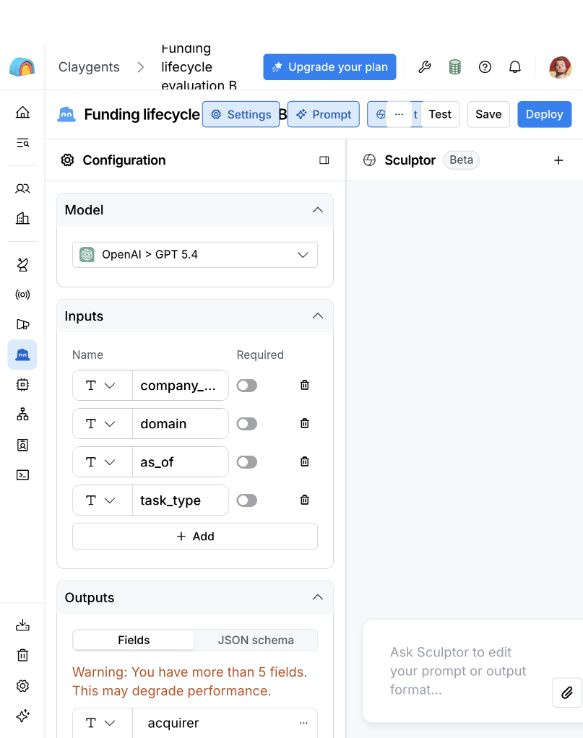
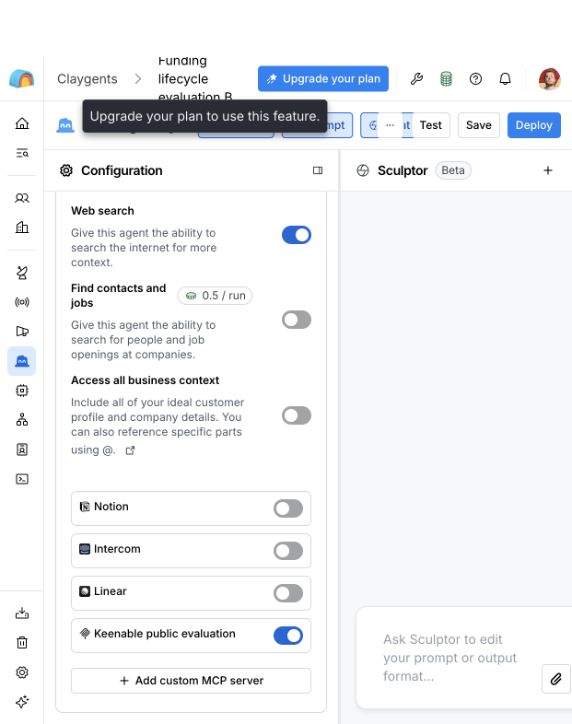
Add pinned Docker runtime and compact reproduction guide

diff --git a/test_eval.py b/test_eval.py
@@ -108,8 +108,11 @@ class RunnerTests(unittest.TestCase):
                 runner.run(args)
                 self.assertEqual(len(calls), count, 'Resume must not submit completed runs again')
                 first = (args.output / 'summary.json').read_bytes()
+                first_table = (args.output / 'results.md').read_bytes()
                 runner.reproduce(args.output)
                 self.assertEqual(first, (args.output / 'summary.json').read_bytes())
+                self.assertEqual(first_table, (args.output / 'results.md').read_bytes())
+                self.assertIn(b'[ungraded](01-A/result.json)', first_table)
                 self.assertFalse(runner.read(args.output / 'summary.json')['accuracy']['calculated'])
                 cases[0]['domain'] = 'changed.test'
                 runner.save(root / 'cases.json', cases)
@@ -125,6 +128,7 @@ class RunnerTests(unittest.TestCase):
                 groups = runner.read(args.output / 'summary.json')['accuracy']['by_arm']
                 self.assertEqual(groups['A']['fields']['funding_stage'], {'correct': 1, 'total': 1})
                 self.assertEqual(groups['B']['supported_answer']['total'], 0)
+                self.assertIn('[1/1](01-A/result.json)', (args.output / 'results.md').read_text())
 
     def test_judgment_coverage_pairs_and_separate_entity_metrics(self):
         with tempfile.TemporaryDirectory() as temporary:

diff --git a/docs/methodology.md b/docs/methodology.md
@@ -4,7 +4,7 @@
 
 Does adding Keenable to a searching Claygent improve evidence-backed answers about a company's latest funding and current lifecycle?
 
-The business outcome is avoiding incorrect prospect qualification caused by stale financing data. I will measure factual research quality first. I will not infer revenue, conversion or sales lift from this experiment.
+The business outcome is avoiding incorrect prospect qualification caused by stale financing data. The experiment measures factual research quality. It does not measure revenue, conversion or sales lift.
 
 ## Conditions
 
@@ -12,17 +12,16 @@ The business outcome is avoiding incorrect prospect qualification caused by stal
 | --- | --- | --- |
 | A | Identical fixed configuration | Native Clay web search and page access |
 | B | Identical fixed configuration | Native Clay tools plus Keenable search and fetch |
-| C, optional diagnostic | Same configuration | Keenable with native web search disabled, only if verified supported |
 
-A remains a full research agent. Both A and B explicitly check for newer acquisition, IPO and closure evidence. B is an augmentation test. I will not describe it as replacing Clay's search. I will preserve tool traces to distinguish availability, actual use, successful retrieval and evidence used in the answer.
+A remains a full research agent. Both A and B explicitly check for newer acquisition, IPO and closure evidence. B is an augmentation test. It does not test replacement of Clay's search. Saved tool-step summaries distinguish availability from actual use.
 
-The main prompt will not force B to use Keenable. Both agents may choose their available tools. A B-run that does not call Keenable remains in the aggregate result, with non-use reported. A forced-tool smoke test verifies wiring separately and does not count toward quality results.
+The main prompt does not force B to use Keenable. Both agents may choose their available tools. A B-run that does not call Keenable remains in the aggregate result, with non-use reported. A forced-tool smoke test verifies wiring separately and does not count toward quality results.
 
 If a tool needs a short explanation of its name, put an equivalent tool-use instruction in both prompts. Do not add special research hints or target URLs only to B.
 
 ## Cases and evidence
 
-1. Freeze 50 company identities before seeing agent answers. The sample includes 28 recent-funding cases, 21 acquired/public lifecycle cases and one separate entity-resolution probe. Include recent rounds across sectors and geographies, acquired venture-backed companies, and a terminated-deal or IPO control. Include Keenable at the user's request. Report results with and without Keenable.
+1. Freeze 50 company identities before seeing agent answers. The sample includes 28 funding cases (mostly recent, with older controls), 21 acquired/public lifecycle cases and one separate entity-resolution probe. Include recent rounds across sectors and geographies, acquired venture-backed companies, and a terminated-deal or IPO control. Include Keenable at the user's request. Report results with and without Keenable.
 2. Include named complaint inputs only when the original names them. Never invent the unidentified company in the funding/acquisition complaint. Keep freemanseattle.com as a separate entity-resolution probe with its own task and score.
 3. Find reference evidence independently of Keenable's results. Prefer company, acquirer, investor and regulatory publications. Record publication date, event date when different, retrieval date and precise supporting fact.
 4. Separate agent inputs from reference answers. The agent receives only company name, domain, as-of date and the common task. It receives no reference URLs, answers, complaint category or difficulty hints.
@@ -34,7 +33,7 @@ Existence of a historical funding announcement does not prove it is the latest r
 
 Return legal/business identity, latest reported venture round, announcement date, amount and currency when established, lifecycle status, lifecycle event date, acquirer when relevant, and evidence URLs tied to each claim. Distinguish acquired, public, private/independent supported by evidence, closed, pending acquisition, and unknown. Record conflicting sources explicitly. Do not convert currencies or substitute total funding for the round amount.
 
-Any ICP eligibility field will use a published rule. Funding stage and lifecycle remain separate fields. A seed-stage company such as Keenable is still useful for factual research even if a Series-only ICP would exclude it.
+ICP exclusion in lifecycle references is derived from acquired/public status; the output has no separate ICP field. Funding stage and lifecycle remain separate fields. A seed-stage company such as Keenable is still useful for factual research even if a Series-only ICP would exclude it.
 
 ## Fair execution
 
@@ -53,16 +52,34 @@ For each A/B disagreement, inspect the retrieved evidence. Classify it as missin
 
 Report wins, ties and losses across all cases; field accuracy; missed facts; false claims; source support; and the percentage of B runs using Keenable. Show per-case results. Small exploratory samples support case observations, not population-wide improvement claims.
 
+The headline counts companies with all predeclared target facts correct and supported. Paired outcomes compare correct-field counts only when both arms have the same non-null targets. A missed extension can affect date, amount, extension recognition and citation support together. Those are correlated scoring dimensions of one missed event. A tie can mean both answers are wrong. `supported_answer` covers scored targets only; additional questionable claims remain visible in judgments.
+
+References are positive evidence anchors, not an exhaustive claim that no later event exists. A supported later event before the cutoff is accepted. Equivalent wording, currencies, date semantics and primary-source corrections are reviewed explicitly. `null` is used only when a target cannot fairly be scored.
+
+Codex adjudicates answers against sources. A/B labels are visible during review. This is not blinded human grading or independent model adjudication. Original source URLs and decision notes are saved with every judgment.
+
+The official CLI exposes tool-step summaries. Many response bodies in those summaries are truncated at 500 characters, even with verbose output. Call names establish observed tool use, but a truncated body cannot establish all evidence that the model received. Claims of Keenable attribution are limited accordingly.
+
 Measure latency from run submission to terminal completion with the same boundary in both conditions. Report total provider charges only from billing evidence. Keep Clay credits, actions and currency charges distinct. Free Builder tests do not estimate production cost. A provider's internal inference estimate is not the user's bill. Compute cost per correct answer only when both the numerator and scoring denominator are established.
 
 ## Reproducibility contract
 
 The final runner must document installation, Clay login, required workspace capabilities, Keenable setup, smoke test, bounded live run, resume and offline reproduction. Credentials stay outside the repository. Document any necessary one-time UI configuration instead of claiming a key alone is sufficient.
 
-The current integration is under validation. Do not publish quality claims or a finished-run command until real tool calls and a complete A/B run have been verified.
+Actual native and Keenable calls were verified before the full comparison. Quality claims require completed paired runs and source adjudication.
 
 ## Preselected challenges
 
 Select difficulty before seeing the answers: extensions after a major round; round amount versus valuation, cumulative funding or debt; announcement versus completion and page-update dates; historical VC funding followed by acquisition or listing; cancelled acquisitions; and same-name entities. Include routine controls as well. A challenge reason is a hypothesis about difficulty, not evidence that either agent will fail.
 
 The UI warns that more than five output fields can degrade performance. Both arms use the same eleven fields to keep factual claims independently inspectable. This common configuration is part of the protocol, not an unrestricted claim about Clay's best possible performance. The eight-call research limit is a prompt instruction; actual calls are recorded because the platform may not enforce it.
+
+The 50 identities comprise 28 funding cases, 14 completed-acquisition cases, seven public-listing cases and one entity probe. Twenty-two have a United States geography label; other cases span Europe, India, Australia, Israel and South Korea, including cross-border companies. The sample remains technology-heavy and purposive. Only the Freeman entity probe is a named input from a retrieved complaint; the funding complaint did not disclose its company.
+
+## Verification coverage
+
+I checked the protocol for an active native-search baseline, equal prompts and models, separate reference answers, exploratory versus held-out labeling, dated sources, and unsupported cost or benefit claims.
+
+An independent model review was attempted through the configured free OpenRouter MCP on September 30, 2026. Both listed connections returned a reauthentication error during the read-only health check. No review generation ran. I did not use a paid fallback or a separate Claude budget. This is a review coverage limitation, not an independent endorsement.
+
+The runner passed seven offline checks covering ambiguous submissions, 50-case scheduling and resume, bounded concurrency, exact prompt restoration after Builder formatting, native and Keenable trace parsing, and complete versus partial judgment aggregation. The initial live pair completed with actual Keenable use in B. The 100-run company evaluation is ongoing; setup and graph validation are not treated as evidence of research accuracy.

diff --git a/README.md b/README.md
@@ -1,58 +1,50 @@
-# Claygent + Keenable evaluation
+# Keenable Eval for Claygent
 
-## About
+[Claygent](https://university.clay.com/docs/claygent-builder) researches companies using web search. This experiment tests whether adding [Keenable](https://keenable.ai/) improves its answers about the latest funding and current ownership status.
 
-Does Keenable help an already-searching Claygent find better evidence about company funding and ownership?
-
-This repository compares two GPT-5.4 Claygents with the same prompt, inputs and output fields. A uses native Clay search. B also has Keenable search and fetch. B chooses its tools; it is not forced to use Keenable. The test contains 50 preselected companies, including recent rounds, completed acquisitions, public listings and a separate same-name company probe.
-
-The task comes from dated Clay community reports. [EVIDENCE.md](EVIDENCE.md) distinguishes recurring business problems from old bugs, feature requests and already-suggested fixes. [DESIGN.md](DESIGN.md) explains selection and scoring.
+50 companies, two agents, one shared GPT-5.4 prompt: native Clay search versus native search plus Keenable. The task comes from [dated user reports](docs/evidence.md).
 
 ## Results
 
-The paired company evaluation is in progress. Successful integration smoke tests establish tool wiring, not better research quality. No winner is claimed yet.
+The 100-run comparison is in progress. Results will include correct target facts, paired wins and losses, actual Keenable use, and observed Clay credits. No overall winner is claimed yet.
 
 ## How to run
 
-The runner uses Python 3 and the official Clay CLI on macOS or Linux. You need a Clay account with Claygent Builder and workflow access, and sufficient existing credits. Python dependencies are all in the standard library. No OpenAI key, browser cookie export or Codex installation is required.
+Use Docker with Compose. Python and the official Clay CLI are pinned in the image.
 
-1. Clone this repository and enter it. Install the official CLI using Clay's [setup instructions](https://github.com/clay-run/agent-plugins/blob/main/clay/skills/setup/SKILL.md). This run used CLI `1.4.0+de2a0396a538`. Put `clay` on PATH, or set `CLAY_BIN` to its absolute path.
-2. Run `clay login --device`. Open the printed link, select your workspace and authorize the CLI. Then run `./eval doctor`. If needed, use `clay workspaces list` and `clay workspaces switch <id>` first.
-3. Run `./eval setup`. It creates both workflows, triggers and agents from the checked-in prompt and schema. It records workspace-specific IDs under ignored `.local/`. Running setup again reuses its saved resources.
-4. Open the generated B agent in Claygent Builder. Under Tools, add a custom MCP server named `Keenable public evaluation` with URL `https://api.keenable.ai/mcp`. Leave the API key empty for the public tier. Enable the connection and keep Web search enabled. Save. Verify A has Web search enabled and Keenable disabled. Keep unrelated private connectors and business context disabled on both. This is the one configuration step the inspected official CLI does not expose. See [INTEGRATION.md](INTEGRATION.md).
-5. Run `./eval bind-refresh` to attach the saved B version to its workflow. This starts no research runs.
-6. Start with one pair from the full frozen plan:
+### Reproduce saved results
 
-   ```sh
-   ./eval run --output runs/my-run --stop-after-pairs 1 --allow-credit-use
-   ```
+```sh
+git clone https://github.com/Alpus/clay-keenable-eval.git
+cd clay-keenable-eval
+docker compose build
+CLAY_NETWORK_MODE=none docker compose run --rm eval reproduce --output /results/exploratory-001
+```
 
-   Inspect `runs/my-run/summary.json` and the saved results. Then resume the same plan:
+After the image is built, this runs without network access, credentials or credits. It recalculates metrics from saved answers and reviewed judgments.
 
-   ```sh
-   ./eval run --output runs/my-run --allow-credit-use
-   ```
+### Run a fresh comparison
 
-   The full plan has 100 agent runs. `--concurrency` controls the number of in-flight runs (default 2, maximum 4). These calls can consume Clay data credits and actions. No command buys credits or changes your plan. Use `--limit N` at the start to freeze a smaller plan. Do not change that limit when resuming.
-7. Recompute the saved operational results without network calls:
+1. Authorize Clay and create the two agents:
 
    ```sh
-   ./eval reproduce --output runs/my-run
+   docker compose run --rm --entrypoint clay eval login --device
+   docker compose run --rm eval setup
    ```
 
-The run saves each returned run ID before polling. Reusing the same output directory resumes known runs. An ambiguous submission stops for inspection instead of spending credits on an automatic duplicate. Do not delete a run directory to recover a timeout. Setup and live runs verify the actual prompt, model, schema, input mappings and graph. Tool configuration is checked in the UI because the CLI does not expose it; actual tool use comes from the saved run trace.
+2. [Connect Keenable once in Builder](docs/usage.md#connect-keenable-once), then run:
+
+   ```sh
+   docker compose run --rm eval bind-refresh
+   docker compose run --rm eval run --output /results/my-run --concurrency 4 --timeout 1200 --allow-credit-use
+   ```
+
+The script schedules all 100 runs automatically, with up to four in flight. Repeat the run command to resume. Results appear in `runs/my-run`. Fresh runs consume existing Clay credits. New factual scores require reviewing the answers against sources. [Native setup, smaller runs and grading](docs/usage.md).
 
 ## Details
 
-- `eval`: one executable for setup, execution, resume and offline reproduction.
-- `cases.json`: model inputs only. No answers, reference URLs or difficulty hints.
-- `prompt.txt`, `output-schema.json`: shared research instructions and fields.
-- `ground-truth.json`: independently researched reference facts and source limitations. The runner never reads it.
-- `dataset-manifest.json`: pre-run dataset and configuration hashes.
-- `runs/`: saved inputs, configurations, outputs, tool traces and observed charges.
-- `INTEGRATION.md`: verified connection setup, saved-version handling and smoke results.
-- `REVIEW.md`: verification coverage and review limitations.
+The comparison gives both agents native web search. B may also use Keenable; it is not forced to. Tool traces show actual use. Sources and reference facts were collected independently of Keenable. This is a purposive exploratory sample with one attempt per condition, not a representative benchmark.
 
-Offline factual scores require reviewed `judgments.json` in the run directory. Without it, the runner reports execution and cost only. A missing fact is not proof of absence. Later supported facts can correct incomplete reference answers, with the adjudication preserved.
+[Method and scoring](docs/methodology.md) · [Complaint evidence](docs/evidence.md) · [Setup and resume](docs/usage.md)
 
-Run the runner's offline safety checks with `python3 -m unittest -v test_eval.py`. Credentials remain in Clay's own local credential store. Never commit `.local/`, credential files or API keys.
+`eval` is the only runner. `cases.json` contains agent inputs; `ground-truth.json` contains separate reference facts. `prompt.txt` and `output-schema.json` define the shared agent. Saved runs contain configurations, answers, traces, charges and judgments. Credentials are excluded.

diff --git a/docs/usage.md b/docs/usage.md
@@ -1,0 +1,101 @@
+# Usage
+
+The runner uses Python 3 and the official Clay CLI on macOS or Linux. No Python packages, OpenAI API key, browser cookie export or Codex installation are required. Fresh runs need a Clay account with Builder and workflow access and enough existing credits. This experiment used Clay CLI `1.4.0+de2a0396a538`.
+
+## Docker setup
+
+Use Docker Engine or Docker Desktop with Compose. Run `docker compose build`, then:
+
+```sh
+docker compose run --rm --entrypoint clay eval login --device
+docker compose run --rm eval doctor
+docker compose run --rm eval setup
+```
+
+Open the device link, choose your workspace and authorize the CLI. Website sign-in alone is not enough. Complete the Builder connection below, then run `docker compose run --rm eval bind-refresh`.
+
+For every native `./eval` command below, the Docker equivalent is `docker compose run --rm eval`. Use `/results/my-run` as the output path inside Docker. It maps to `runs/my-run` on the host. The repository is mounted read-only. Credentials and workflow state use separate persistent Docker volumes. Preserve those volumes to resume; `docker compose down --volumes` deletes them. Docker does not reuse a native installation's credentials or workflow bindings.
+
+Python 3.13.15 and Clay CLI 1.4.0 are pinned with an image digest and binary checksums. The container was built and tested on Linux ARM64. An official AMD64 binary is configured but was not executed in this verification. Fresh-checkout setup and offline replay were tested. The paid comparison was executed natively with the same runner and CLI version; authenticated container research was not separately replayed.
+
+After building the image, disable networking for saved-result reproduction:
+
+```sh
+CLAY_NETWORK_MODE=none docker compose run --rm eval reproduce --output /results/exploratory-001
+```
+
+## Native setup
+
+1. Clone this repository and enter its directory.
+2. Install the CLI using Clay's [official setup instructions](https://github.com/clay-run/agent-plugins/blob/main/clay/skills/setup/SKILL.md). Put `clay` on PATH, or set `CLAY_BIN` to its absolute path. The official native installer verifies the downloaded binary checksum and preserves compatible installations.
+3. Run `clay login --device`. Open the printed link, choose the workspace and authorize the CLI. Website sign-in alone is not sufficient. If several workspaces are connected, use `clay workspaces list` and `clay workspaces switch <id>`.
+4. Run `./eval doctor`, then `./eval setup`. Setup creates both workflows, manual triggers and GPT-5.4 agents from the checked-in files. It prints their IDs and workflow links. Repeating setup reuses the resources recorded in ignored `.local/state.json`.
+5. Complete the connection step below, then run `./eval bind-refresh`. It attaches B's saved version, restores any whitespace formatting introduced by Builder, and checks exact prompt, model, schema, input mappings and graph equality. It starts no model runs.
+
+## Connect Keenable once
+
+Open **Funding lifecycle evaluation B** in Claygent Builder, using the agent ID printed by setup to distinguish it from any older experiment.
+
+1. Under Tools, keep **Web search** enabled.
+2. Add a custom MCP server named **Keenable public evaluation** with URL `https://api.keenable.ai/mcp`. Leave the API key empty for the public tier.
+3. Enable that connection and save the agent.
+4. Verify A has Web search enabled and Keenable disabled. Keep other private connectors, account context and business context disabled on both.
+
+This setting is not exposed by the inspected official CLI node schema. The runner therefore uses one manual Builder step, then the official CLI for all runs. It never replays private browser endpoints or stores browser credentials. [A configuration](../evidence/variant-a-settings.png) · [B configuration](../evidence/variant-b-settings.png).
+
+The [public Keenable tier](https://docs.keenable.ai/rate-limits) is unbilled and allows 1,000 requests per hour, at most 10 per second, shared per IP. Clay may use shared egress. A rate-limit failure must be recorded, not bypassed. Authenticated Keenable setup was not tested here.
+
+## Run and resume
+
+Start with the first pair while keeping the full 50-company plan:
+
+```sh
+./eval run --output runs/my-run --concurrency 4 --stop-after-pairs 1 --allow-credit-use
+```
+
+Inspect the saved answers and tool traces. Continue all remaining pairs:
+
+```sh
+./eval run --output runs/my-run --concurrency 4 --timeout 1200 --allow-credit-use
+```
+
+The script automatically submits up to four runs concurrently. A/B submission order alternates across companies. It saves each returned run ID before polling. Terminal runs are not repeated. A polling timeout leaves the original run available for resume.
+
+- `--limit N` freezes a smaller plan at the first invocation. Keep that limit when resuming.
+- `--stop-after-pairs N` is an operational checkpoint, not a new dataset.
+- `--concurrency 1..4` changes in-flight capacity. Each invocation is recorded; it does not change prompts or answers.
+- `--timeout SECONDS` controls polling time per run (default 600). It never resubmits a timed-out run.
+- `--allow-credit-use` permits spending existing Clay credits. No command purchases credits or changes a plan.
+
+Keep one runner process per checkout. To resume, preserve `.local/` and the run directory, resolve the interruption, and repeat the same command. Changed inputs, model, prompt, schema or workflow bindings stop resume. An ambiguous submission stops for inspection of its saved call and Clay run history. Do not delete its records or start a fresh directory as a retry.
+
+If setup reports an ambiguous mutation, inspect the saved `.local/` journal and actual workflow before recovery. The runner will not blindly duplicate it.
+
+## Reproduce and grade
+
+```sh
+./eval reproduce --output runs/exploratory-001
+```
+
+This reads saved files only and rebuilds `summary.json` and the per-company `results.md` table. It does not need Clay authentication, credits or the reference file. Saved judgments are the factual scoring input; reproduction recomputes their aggregates, not a new independent judgment of the sources.
+
+For a fresh run, review every answer against the [scoring rules](methodology.md), then save `judgments.json` in its run directory. Without judgments, reproduction reports execution, tool use, time and credits only. Partial judgment coverage is explicitly labeled.
+
+```json
+{
+  "cases": [
+    {
+      "case_id": "example",
+      "arm": "A",
+      "scored_task": "funding_and_lifecycle",
+      "fields": {"funding_stage": true, "announcement_date": false},
+      "supported_answer": false,
+      "notes": "Explain the evidence and any ambiguity."
+    }
+  ]
+}
+```
+
+Use `null` only for a target that cannot be fairly scored, with an explanation. `supported_answer` refers to the predeclared target facts, not all unscored claims. Keep evidence checks and corrections beside the judgments. Score entity resolution separately.
+
+Run local safety checks with `python3 -m unittest -v test_eval.py`. Credentials remain in Clay's credential store. Never commit `.local/`, `.env` or API keys.
